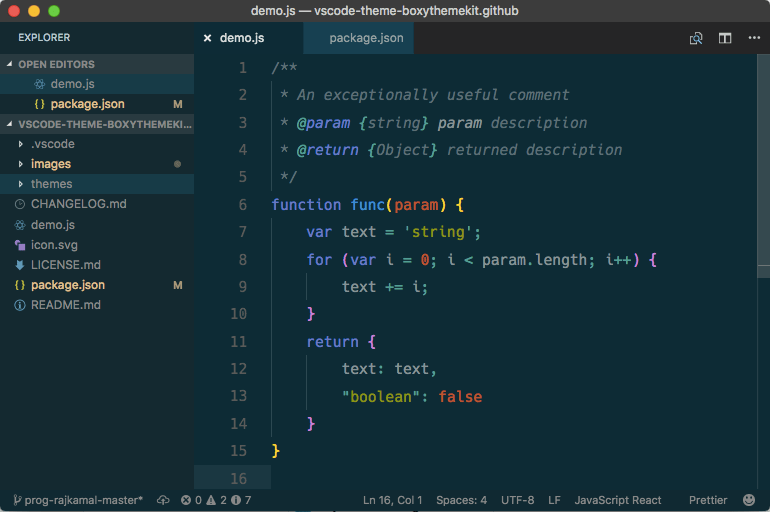
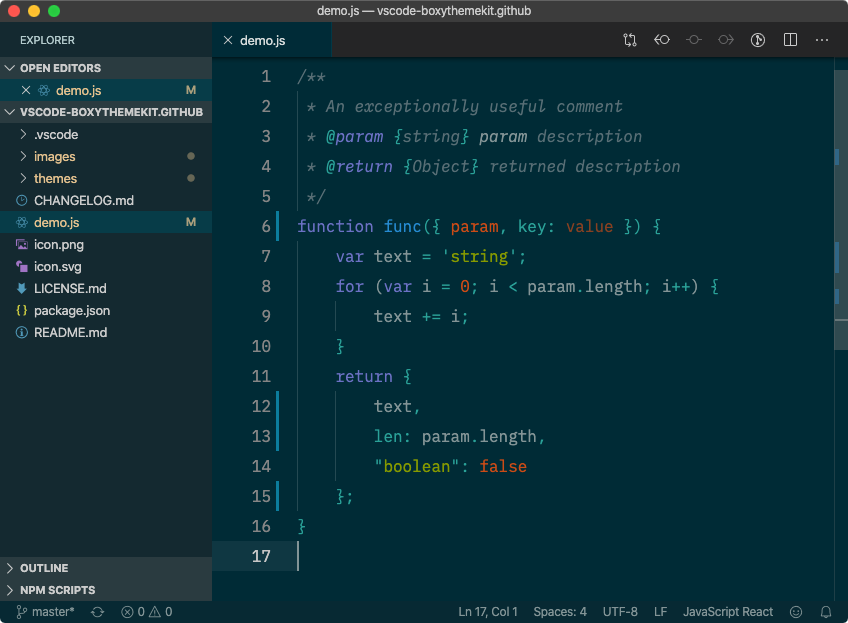
[0.4.0] Use different color for object literal keys and destructuring key binding to enhance code readability

diff --git a/demo.js b/demo.js
@@ -3,13 +3,14 @@
  * @param {string} param description
  * @return {Object} returned description
  */
-function func(param) {
+function func({ param, key: value }) {
     var text = 'string';
     for (var i = 0; i < param.length; i++) {
         text += i;
     }
     return {
-        text: text,
+        text,
+        len: param.length,
         "boolean": false
-    }
+    };
 }

diff --git a/CHANGELOG.md b/CHANGELOG.md
@@ -1,5 +1,9 @@
 # Change Log
 
+## [0.4.0] 2019-12-18
+
+- [All] Use different color for object literal key and destructuring key binding to improve code readability. See demo screenshots for example.
+
 ## [0.3.0] 2018-11-20
 
 - [Ocean, Solarize Dark] Use solid background for sidebar and command panel. (It's hard to read with transparent panel on top of editor)
